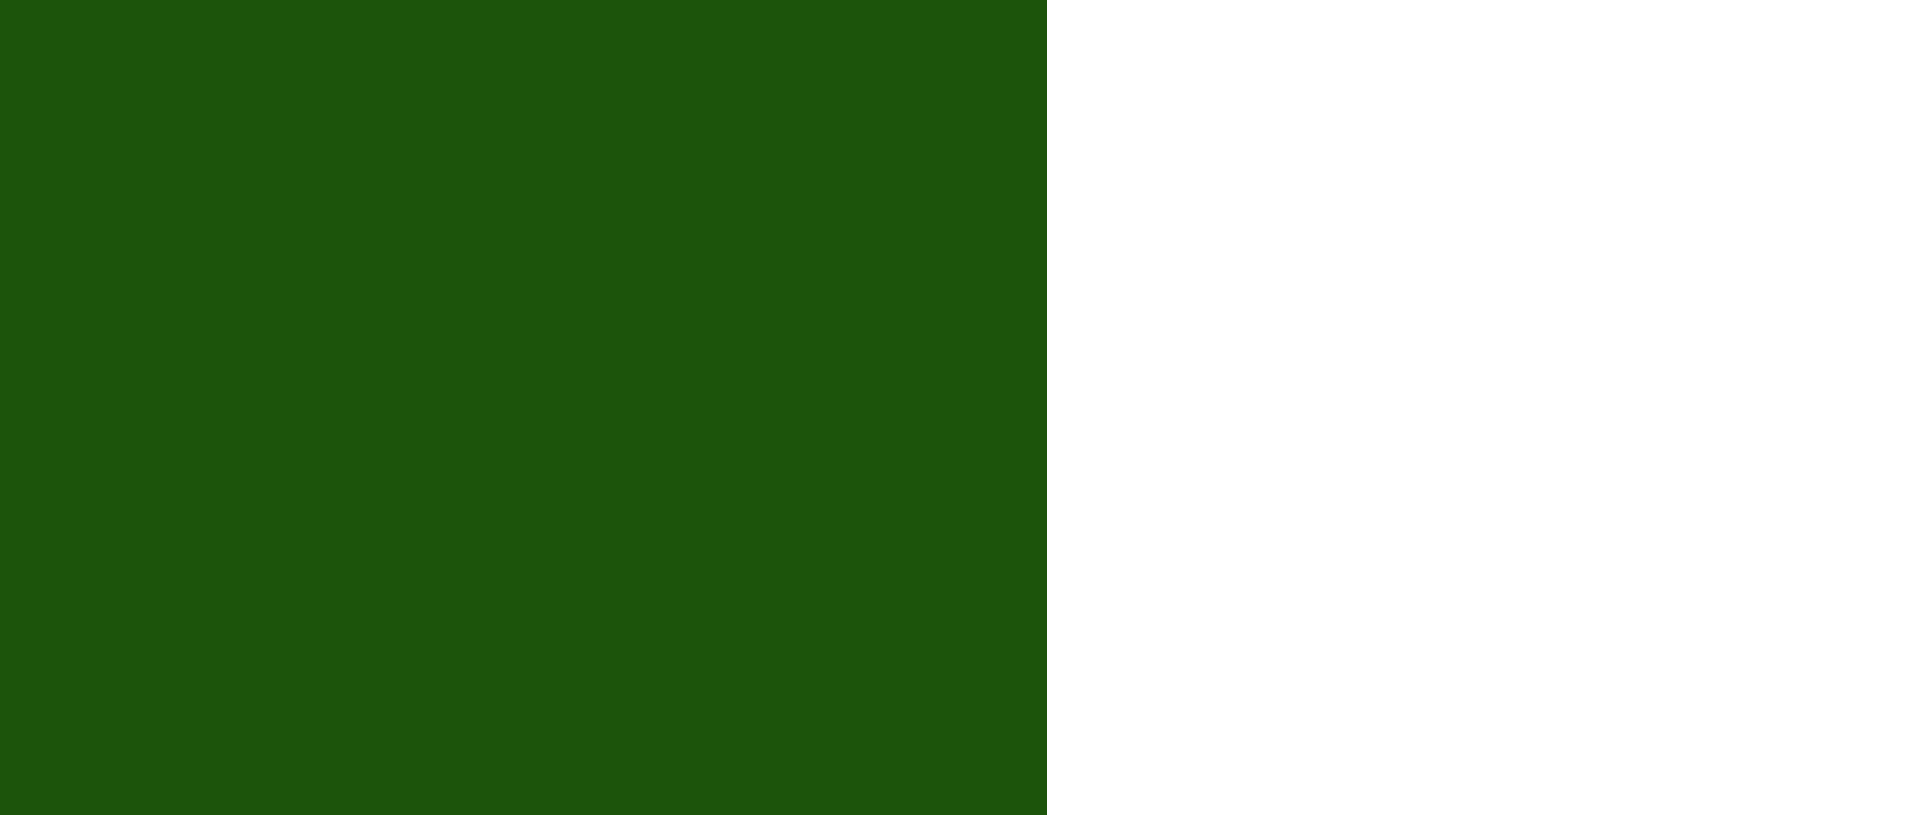
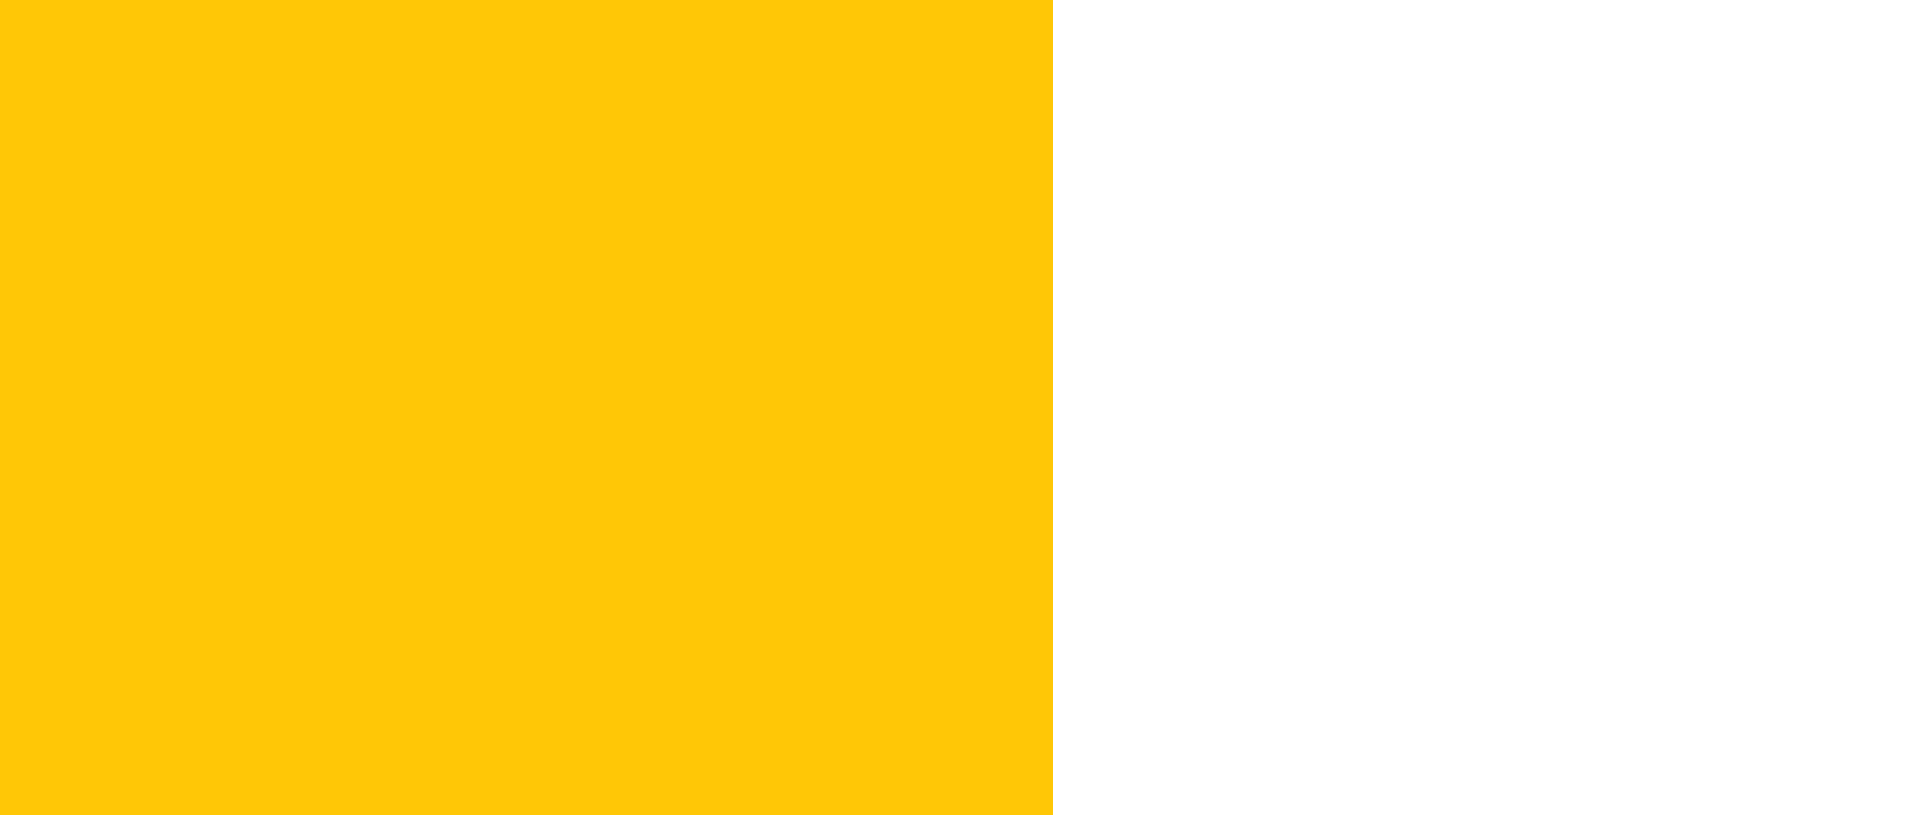
Add files via upload

diff --git a/index.html b/index.html
@@ -53,10 +53,10 @@
                            <ul class="menu-area-main">
 
                               <li>
-                                 <a href="https://www.chaodoprado.pt">Chão do prado</a>
+                                 <a href="https://www.chaodoprado.pt/">Chão do prado</a>
                               </li>
                               <li>
-                                 <a href="https://www.tocobicho.pt">Tocobicho</a>
+                                 <a href="https://tocobicho.pt/">Tocobicho</a>
                               </li>
                            </ul>
                         </nav>
@@ -101,7 +101,7 @@
                         <a href="">Menu</a>
                      </div>
                      <div class="button_section1">
-                       <a  href="https://www.google.pt/maps/place/R.+Henrique+Ferreira+Ruivo,+2615-341+Alverca+do+Ribatejo,+Portugal/@38.8984737,-9.0386135,84m/data=!3m1!1e3!4m5!3m4!1s0xd1928c63a0a5907:0xe3e826c284086700!8m2!3d38.8984737!4d-9.0383399?dcr=0">Reserve já</a>
+                       <a  href="https://reservation.dish.co/widget/hydra-49245cf0-d5dd-11ea-b5ea-ab94999db330?foregroundColor=&backgroundColor=&linkColor=&errorColor=&primaryButtonForegroundColor=&primaryButtonBackgroundColor=&secondaryButtonForegroundColor=&secondaryButtonBackgroundColor=">Reserve já</a>
                      </div>
                   </div>
                </div>
@@ -122,7 +122,7 @@
             <div class="row margin_top_30">
                <div class="col-md-12">
                   <div class="button_section full center margin_top_30">
-                     <a style="margin:0;" href="https://www.google.pt/maps/place/Ch%C3%A3o+do+Prado/@38.9077328,-9.1132798,17z/data=!4m5!3m4!1s0xd192be9fe3d00fb:0x42abfd29b1fd73d5!8m2!3d38.9073404!4d-9.111649?dcr=0">Localização</a>
+                     <a style="margin:0;" href="https://www.google.pt/maps/place/A+Tendinha+do+Mercado/@38.8984057,-9.0382373,20z/data=!4m8!1m2!2m1!1scorreios+alverca!3m4!1s0xd1929c144f6c5bb:0xeebe5922ae6ecd!8m2!3d38.8985903!4d-9.0382089?dcr=0">Localização</a>
                   </div>
                </div>
             </div>

diff --git a/css/style.css b/css/style.css
@@ -459,7 +459,7 @@ a.readmore_bt {
 ---------------------------------------------------------------------*/
 
 header {
-    background: #0a6315;
+    background: #ffcc01;
     min-height: 122px;
 
 }
@@ -487,7 +487,7 @@ nav.main-menu {
 
 .menu-area-main li:hover a,
 .menu-area-main li:focus a {
-	color: yellow;
+	color: #745e04;
 }
 
 .menu-area-main li.active a {

diff --git a/css/responsive.css b/css/responsive.css
@@ -2594,4 +2594,3 @@ p {
     line-height: 25px;
     color: #212222;
 }
-
